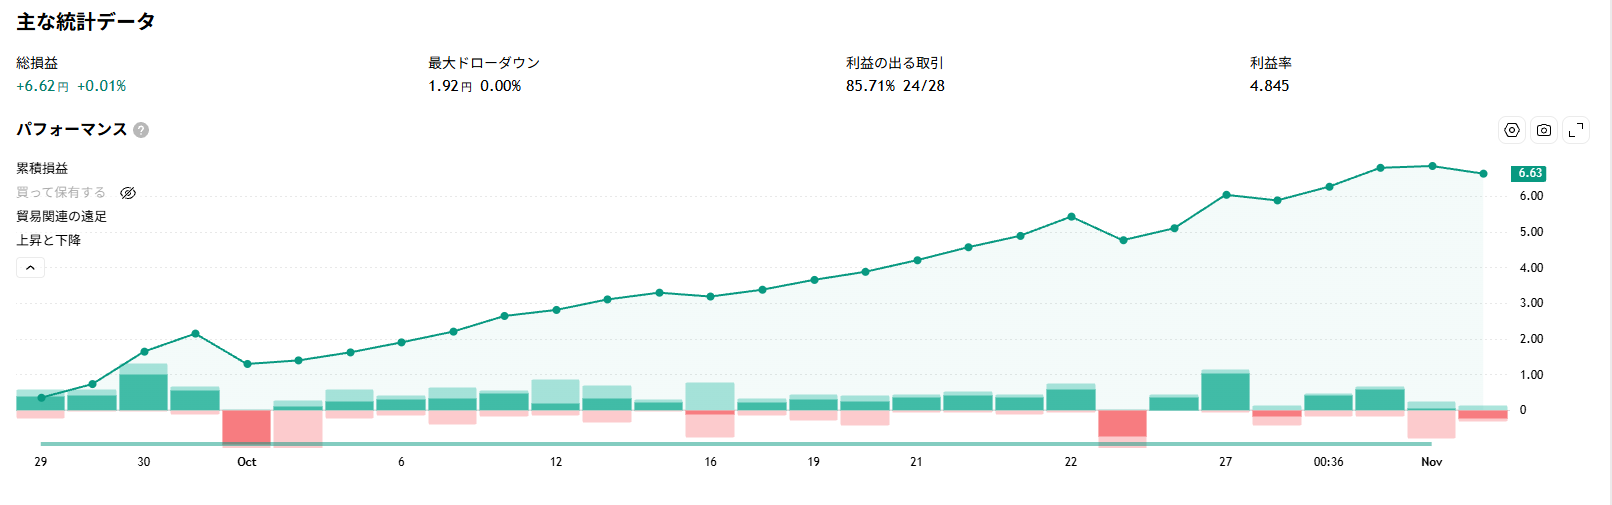
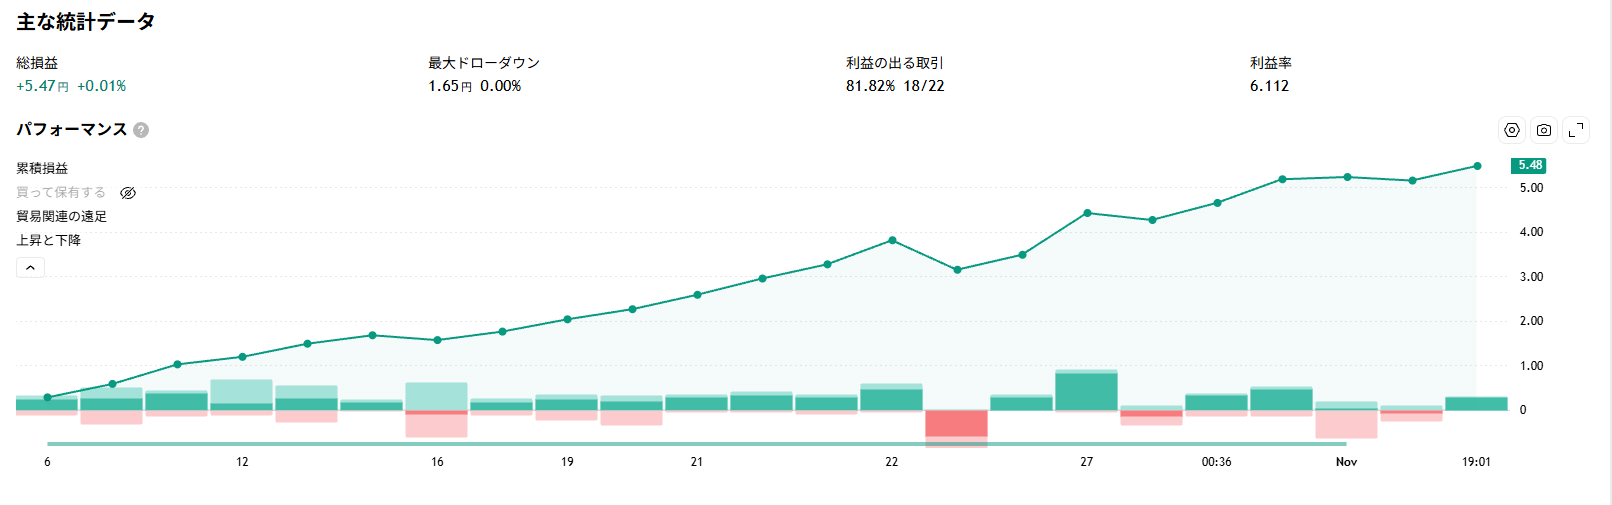
売買記録 2026-11-03（CA_RSI_Bol_1.1_JP）

diff --git a/index.html b/index.html
@@ -47,7 +47,7 @@ ul.days a{display:block;background:var(--card);border:1px solid var(--line);bord
 .eqw .cx{stroke:var(--muted);stroke-width:1;vector-effect:non-scaling-stroke;display:none}
 .eqw .dot{fill:var(--eq);stroke:var(--card);stroke-width:2;vector-effect:non-scaling-stroke;display:none}
 .eqt{position:absolute;top:4px;transform:translateX(-50%);background:var(--card);border:1px solid var(--line);border-radius:6px;padding:4px 8px;font-size:12px;line-height:1.5;white-space:nowrap;pointer-events:none;display:none;box-shadow:0 2px 8px rgba(0,0,0,.14)}
-</style></head><body><header><h1>TradingView 売買記録</h1><div class=sub>通算 ／ CA_RSI_Bol_1.1_JP — USDJPY 3分足</div></header><main><h2>通算成績</h2><p class=note>ChartArt「Bollinger + RSI, Double Strategy」v1.1 の日本語表示版。ロジックは原本と同じで、矢印を「買い／売り」表示にして評価損益を円で出すようにしたもの。アラート2本（1時間足・3分足）が稼働中。</p><div class=kpi><div><div class=k>総損益</div><div class=v><span class="up">+6.85</span> 円</div><div class=n>建玉中込み +6.65 円</div></div><div><div class=k>利益率（PF）</div><div class=v>4.848</div><div class=n>建玉中込み 4.359</div></div><div><div class=k>勝率</div><div class=v>85.7%</div><div class=n>24 勝 / 28 取引</div></div><div><div class=k>最大ドローダウン</div><div class=v>1.92 円</div><div class=n>含み損も数えた谷</div></div></div><p class=note>記録を始めてからためた<b>全 29 取引</b>の通算です（2026-09-29 〜 2026-11-02）。TradingView がさかのぼれる範囲から外れた古い取引も台帳に残してあるので消えません。最後に記録したのは <b>2026-11-03</b>（2026-11-03 06:43 JST）。</p><h2>通算の損益カーブ</h2><p>決済が済んだ取引だけを、決済した順に積み上げたものです。線をなぞるとその取引が出ます。</p><div class=eqw id=eqw><svg viewBox="0 0 380 210" role=img aria-label="通算の損益カーブ。2026年09月29日から2026年11月02日まで、決済済み 28 取引の累積損益は +6.85 円。1件ごとの内訳は下のトレード履歴の表で読めます。"><title>通算の損益カーブ</title><line class="zl" x1="44.0" y1="184.0" x2="372.0" y2="184.0"/><text class=ax x="39.0" y="187.5" text-anchor=end>+0</text><line class="gl" x1="44.0" y1="141.0" x2="372.0" y2="141.0"/><text class=ax x="39.0" y="144.5" text-anchor=end>+2</text><line class="gl" x1="44.0" y1="98.0" x2="372.0" y2="98.0"/><text class=ax x="39.0" y="101.5" text-anchor=end>+4</text><line class="gl" x1="44.0" y1="55.0" x2="372.0" y2="55.0"/><text class=ax x="39.0" y="58.5" text-anchor=end>+6</text><line class="gl" x1="44.0" y1="12.0" x2="372.0" y2="12.0"/><text class=ax x="39.0" y="15.5" text-anchor=end>+8</text><text class=ax x="44.0" y="201.0" text-anchor=start>9/29</text><text class=ax x="203.5" y="201.0" text-anchor=middle>10/16</text><text class=ax x="372.0" y="201.0" text-anchor=end>11/2</text><polygon class=ar points="44.0,184.0 44.0,184.0 46.9,176.7 48.2,168.5 52.9,149.0 57.9,138.0 66.3,156.3 102.1,154.1 109.0,149.4 112.6,143.4 129.7,136.9 135.8,127.5 168.6,123.8 188.1,117.4 189.0,113.3 203.5,115.6 208.5,111.5 240.1,105.5 251.6,100.6 255.8,93.7 260.5,85.7 263.2,78.9 267.0,67.3 304.3,81.4 305.0,74.1 314.4,53.9 325.7,57.4 329.6,49.2 341.7,37.8 372.0,36.7 372.0,184.0"/><polyline class=ln points="44.0,184.0 46.9,176.7 48.2,168.5 52.9,149.0 57.9,138.0 66.3,156.3 102.1,154.1 109.0,149.4 112.6,143.4 129.7,136.9 135.8,127.5 168.6,123.8 188.1,117.4 189.0,113.3 203.5,115.6 208.5,111.5 240.1,105.5 251.6,100.6 255.8,93.7 260.5,85.7 263.2,78.9 267.0,67.3 304.3,81.4 305.0,74.1 314.4,53.9 325.7,57.4 329.6,49.2 341.7,37.8 372.0,36.7"/><text class=dl x="370.0" y="29.7" text-anchor=end>+6.85 円</text><line class=cx id=eqcx y1="12" y2="184" x1="0" x2="0"/><circle class=dot id=eqdot r="5" cx="0" cy="0"/></svg><div class=eqt id=eqt></div><script type="application/json" id=eqd>[{"x": 44.0, "y": 184.0, "t": "2026/09/29 記録開始<br>累積 +0.00 円"}, {"x": 46.9, "y": 176.7, "t": "2026/09/29 21:21 決済<br>売り +0.34 円<br>累積 +0.34 円"}, {"x": 48.2, "y": 168.5, "t": "2026/09/30 00:36 決済<br>買い +0.38 円<br>累積 +0.72 円"}, {"x": 52.9, "y": 149.0, "t": "2026/09/30 12:15 決済<br>売り +0.91 円<br>累積 +1.63 円"}, {"x": 57.9, "y": 138.0, "t": "2026/10/01 00:30 決済<br>買い +0.51 円<br>累積 +2.14 円"}, {"x": 66.3, "y": 156.3, "t": "2026/10/01 21:24 決済<br>売り -0.85 円<br>累積 +1.29 円"}, {"x": 102.1, "y": 154.1, "t": "2026/10/05 13:54 決済<br>買い +0.10 円<br>累積 +1.39 円"}, {"x": 109.0, "y": 149.4, "t": "2026/10/06 06:57 決済<br>売り +0.22 円<br>累積 +1.61 円"}, {"x": 112.6, "y": 143.4, "t": "2026/10/06 15:45 決済<br>買い +0.28 円<br>累積 +1.89 円"}, {"x": 129.7, "y": 136.9, "t": "2026/10/08 10:06 決済<br>売り +0.30 円<br>累積 +2.19 円"}, {"x": 135.8, "y": 127.5, "t": "2026/10/09 01:09 決済<br>買い +0.44 円<br>累積 +2.63 円"}, {"x": 168.6, "y": 123.8, "t": "2026/10/12 10:18 決済<br>売り +0.17 円<br>累積 +2.80 円"}, {"x": 188.1, "y": 117.4, "t": "2026/10/14 10:36 決済<br>買い +0.30 円<br>累積 +3.10 円"}, {"x": 189.0, "y": 113.3, "t": "2026/10/14 12:45 決済<br>売り +0.19 円<br>累積 +3.29 円"}, {"x": 203.5, "y": 115.6, "t": "2026/10/16 00:42 決済<br>買い -0.11 円<br>累積 +3.18 円"}, {"x": 208.5, "y": 111.5, "t": "2026/10/16 13:09 決済<br>売り +0.19 円<br>累積 +3.37 円"}, {"x": 240.1, "y": 105.5, "t": "2026/10/19 19:18 決済<br>買い +0.28 円<br>累積 +3.65 円"}, {"x": 251.6, "y": 100.6, "t": "2026/10/20 23:48 決済<br>売り +0.23 円<br>累積 +3.88 円"}, {"x": 255.8, "y": 93.7, "t": "2026/10/21 10:09 決済<br>買い +0.32 円<br>累積 +4.20 円"}, {"x": 260.5, "y": 85.7, "t": "2026/10/21 21:48 決済<br>売り +0.37 円<br>累積 +4.57 円"}, {"x": 263.2, "y": 78.9, "t": "2026/10/22 04:18 決済<br>買い +0.32 円<br>累積 +4.89 円"}, {"x": 267.0, "y": 67.3, "t": "2026/10/22 13:45 決済<br>売り +0.54 円<br>累積 +5.43 円"}, {"x": 304.3, "y": 81.4, "t": "2026/10/26 10:03 決済<br>買い -0.66 円<br>累積 +4.77 円"}, {"x": 305.0, "y": 74.1, "t": "2026/10/26 11:48 決済<br>売り +0.34 円<br>累積 +5.11 円"}, {"x": 314.4, "y": 53.9, "t": "2026/10/27 11:00 決済<br>買い +0.94 円<br>累積 +6.05 円"}, {"x": 325.7, "y": 57.4, "t": "2026/10/28 14:54 決済<br>売り -0.16 円<br>累積 +5.89 円"}, {"x": 329.6, "y": 49.2, "t": "2026/10/29 00:36 決済<br>買い +0.38 円<br>累積 +6.27 円"}, {"x": 341.7, "y": 37.8, "t": "2026/10/30 06:39 決済<br>売り +0.53 円<br>累積 +6.80 円"}, {"x": 372.0, "y": 36.7, "t": "2026/11/02 09:33 決済<br>買い +0.05 円<br>累積 +6.85 円"}]</script></div><h2>トレード履歴（通算）</h2><p>全 29 件（新しい順）</p><p class=cap>日時は上がエントリー・下が決済。小さい字は価格です。</p><div class=sc><table><thead><tr><th>#</th><th>方向</th><th>日時</th><th>損益<br>(円)</th><th>累積<br>(円)</th></tr></thead><tbody><tr class=op><td class=num>29</td><td><span class="tag s">売</span></td><td>11/02 09:33<br>↓ <b>建玉中</b><div class=px>157.719 → （未決済）</div></td><td class=num><span class="dn">-0.20</span></td><td class=num>+6.65</td></tr><tr><td class=num>28</td><td><span class="tag b">買</span></td><td>10/30 06:39<br>↓ 11/02 09:33<div class=px>157.668 → 157.719</div></td><td class=num><span class="up">+0.05</span></td><td class=num>+6.85</td></tr><tr><td class=num>27</td><td><span class="tag s">売</span></td><td>10/29 00:36<br>↓ 10/30 06:39<div class=px>158.199 → 157.668</div></td><td class=num><span class="up">+0.53</span></td><td class=num>+6.80</td></tr><tr><td class=num>26</td><td><span class="tag b">買</span></td><td>10/28 14:54<br>↓ 10/29 00:36<div class=px>157.816 → 158.199</div></td><td class=num><span class="up">+0.38</span></td><td class=num>+6.27</td></tr><tr><td class=num>25</td><td><span class="tag s">売</span></td><td>10/27 11:00<br>↓ 10/28 14:54<div class=px>157.659 → 157.816</div></td><td class=num><span class="dn">-0.16</span></td><td class=num>+5.89</td></tr><tr><td class=num>24</td><td><span class="tag b">買</span></td><td>10/26 11:48<br>↓ 10/27 11:00<div class=px>156.721 → 157.659</div></td><td class=num><span class="up">+0.94</span></td><td class=num>+6.05</td></tr><tr><td class=num>23</td><td><span class="tag s">売</span></td><td>10/26 10:03<br>↓ 10/26 11:48<div class=px>157.057 → 156.721</div></td><td class=num><span class="up">+0.34</span></td><td class=num>+5.11</td></tr><tr><td class=num>22</td><td><span class="tag b">買</span></td><td>10/22 13:45<br>↓ 10/26 10:03<div class=px>157.719 → 157.057</div></td><td class=num><span class="dn">-0.66</span></td><td class=num>+4.77</td></tr><tr><td class=num>21</td><td><span class="tag s">売</span></td><td>10/22 04:18<br>↓ 10/22 13:45<div class=px>158.26 → 157.719</div></td><td class=num><span class="up">+0.54</span></td><td class=num>+5.43</td></tr><tr><td class=num>20</td><td><span class="tag b">買</span></td><td>10/21 21:48<br>↓ 10/22 04:18<div class=px>157.942 → 158.26</div></td><td class=num><span class="up">+0.32</span></td><td class=num>+4.89</td></tr><tr><td class=num>19</td><td><span class="tag s">売</span></td><td>10/21 10:09<br>↓ 10/21 21:48<div class=px>158.307 → 157.942</div></td><td class=num><span class="up">+0.37</span></td><td class=num>+4.57</td></tr><tr><td class=num>18</td><td><span class="tag b">買</span></td><td>10/20 23:48<br>↓ 10/21 10:09<div class=px>157.983 → 158.307</div></td><td class=num><span class="up">+0.32</span></td><td class=num>+4.20</td></tr><tr><td class=num>17</td><td><span class="tag s">売</span></td><td>10/19 19:18<br>↓ 10/20 23:48<div class=px>158.21 → 157.983</div></td><td class=num><span class="up">+0.23</span></td><td class=num>+3.88</td></tr><tr><td class=num>16</td><td><span class="tag b">買</span></td><td>10/16 13:09<br>↓ 10/19 19:18<div class=px>157.935 → 158.21</div></td><td class=num><span class="up">+0.28</span></td><td class=num>+3.65</td></tr><tr><td class=num>15</td><td><span class="tag s">売</span></td><td>10/16 00:42<br>↓ 10/16 13:09<div class=px>158.126 → 157.935</div></td><td class=num><span class="up">+0.19</span></td><td class=num>+3.37</td></tr><tr><td class=num>14</td><td><span class="tag b">買</span></td><td>10/14 12:45<br>↓ 10/16 00:42<div class=px>158.234 → 158.126</div></td><td class=num><span class="dn">-0.11</span></td><td class=num>+3.18</td></tr><tr><td class=num>13</td><td><span class="tag s">売</span></td><td>10/14 10:36<br>↓ 10/14 12:45<div class=px>158.423 → 158.234</div></td><td class=num><span class="up">+0.19</span></td><td class=num>+3.29</td></tr><tr><td class=num>12</td><td><span class="tag b">買</span></td><td>10/12 10:18<br>↓ 10/14 10:36<div class=px>158.128 → 158.423</div></td><td class=num><span class="up">+0.30</span></td><td class=num>+3.10</td></tr><tr><td class=num>11</td><td><span class="tag s">売</span></td><td>10/09 01:09<br>↓ 10/12 10:18<div class=px>158.297 → 158.128</div></td><td class=num><span class="up">+0.17</span></td><td class=num>+2.80</td></tr><tr><td class=num>10</td><td><span class="tag b">買</span></td><td>10/08 10:06<br>↓ 10/09 01:09<div class=px>157.858 → 158.297</div></td><td class=num><span class="up">+0.44</span></td><td class=num>+2.63</td></tr><tr><td class=num>9</td><td><span class="tag s">売</span></td><td>10/06 15:45<br>↓ 10/08 10:06<div class=px>158.16 → 157.858</div></td><td class=num><span class="up">+0.30</span></td><td class=num>+2.19</td></tr><tr><td class=num>8</td><td><span class="tag b">買</span></td><td>10/06 06:57<br>↓ 10/06 15:45<div class=px>157.879 → 158.16</div></td><td class=num><span class="up">+0.28</span></td><td class=num>+1.89</td></tr><tr><td class=num>7</td><td><span class="tag s">売</span></td><td>10/05 13:54<br>↓ 10/06 06:57<div class=px>158.103 → 157.879</div></td><td class=num><span class="up">+0.22</span></td><td class=num>+1.61</td></tr><tr><td class=num>6</td><td><span class="tag b">買</span></td><td>10/01 21:24<br>↓ 10/05 13:54<div class=px>158.003 → 158.103</div></td><td class=num><span class="up">+0.10</span></td><td class=num>+1.39</td></tr><tr><td class=num>5</td><td><span class="tag s">売</span></td><td>10/01 00:30<br>↓ 10/01 21:24<div class=px>157.151 → 158.003</div></td><td class=num><span class="dn">-0.85</span></td><td class=num>+1.29</td></tr><tr><td class=num>4</td><td><span class="tag b">買</span></td><td>09/30 12:15<br>↓ 10/01 00:30<div class=px>156.644 → 157.151</div></td><td class=num><span class="up">+0.51</span></td><td class=num>+2.14</td></tr><tr><td class=num>3</td><td><span class="tag s">売</span></td><td>09/30 00:36<br>↓ 09/30 12:15<div class=px>157.553 → 156.644</div></td><td class=num><span class="up">+0.91</span></td><td class=num>+1.63</td></tr><tr><td class=num>2</td><td><span class="tag b">買</span></td><td>09/29 21:21<br>↓ 09/30 00:36<div class=px>157.169 → 157.553</div></td><td class=num><span class="up">+0.38</span></td><td class=num>+0.72</td></tr><tr><td class=num>1</td><td><span class="tag s">売</span></td><td>09/29 14:09<br>↓ 09/29 21:21<div class=px>157.509 → 157.169</div></td><td class=num><span class="up">+0.34</span></td><td class=num>+0.34</td></tr></tbody></table></div><h2>この日の TradingView 画面</h2><p class=note><b>取得日時 2026-11-03 06:43 JST</b><br>TradingView がこの日さかのぼれた範囲は <b>2026-09-29 〜 2026-11-02</b>（29 取引）。その範囲だけで集計すると 総損益 +6.84 円 ／ 利益率 4.848。<br>上の通算と数字が違うのは、通算には窓から外れた古い取引も入っているからです。</p><h3>戦略レポート（主な統計データと累積損益カーブ）</h3><a href='2026-11-03/report.png' target=_blank rel=noopener><img src='2026-11-03/report.png' alt='戦略レポート（主な統計データと累積損益カーブ）'></a><p class=cap>画像をタップすると原寸で開きます</p><h2>日付ごとの記録</h2><ul class=days><li><a href='2026-11-03/'>2026-11-03　← いちばん新しい記録</a></li><li><a href='2026-11-02/'>2026-11-02</a></li><li><a href='2026-11-01/'>2026-11-01</a></li><li><a href='2026-10-31/'>2026-10-31</a></li></ul><details open><summary>⚠ 数字を読むときの注意</summary><ul><li><b>通算は「記録したときに TradingView に見えていた取引」を足したもの</b>です。記録を始める前の取引や、記録の間隔が開いて窓から外れてしまった取引は入りません</li><li>通算の総損益は<b>1取引ごとの損益を足し上げた値</b>です。TradingView の「累積損益」の列は行ごとに丸めてあるので、そちらとわずかに違います（いちばん新しい記録の範囲で 足し上げ +6.85 円 / TV の列 +6.84 円）</li><li><b>TradingView の画面に出る「利益率」は建玉中の評価損益を含みません</b>。いま建玉中が -0.20 円あり、含めると利益率は 4.848 → 4.359 になります</li><li>表の損益はスプレッドや実際の約定ズレを含みません。実口座の成績とは一致しません</li><li>最大ドローダウンは、決済ごとの累積損益に加えて保有中の含み損も谷として数えています。TradingView の表示と計算の土俵が違うことがあります</li><li>この戦略は5分足6年の独立検証では利益率 0.924（ランダムに入った場合より悪い）でした。ここに出ている短期の高い利益率は、期間の取り方で出ることがあります</li><li>3分足は長期の裏取りができません（手持ちの検証データは最短5分足）</li></ul></details><p class=foot>TradingView の戦略テスターから自動で作っています。取引一覧の原本（CSV）と通算台帳は非公開の保管用リポジトリにあります。</p></main><script>
+</style></head><body><header><h1>TradingView 売買記録</h1><div class=sub>通算 ／ CA_RSI_Bol_1.1_JP — USDJPY 3分足</div></header><main><h2>通算成績</h2><p class=note>ChartArt「Bollinger + RSI, Double Strategy」v1.1 の日本語表示版。ロジックは原本と同じで、矢印を「買い／売り」表示にして評価損益を円で出すようにしたもの。アラート2本（1時間足・3分足）が稼働中。</p><div class=kpi><div><div class=k>総損益</div><div class=v><span class="up">+6.77</span> 円</div><div class=n>建玉中込み +7.14 円</div></div><div><div class=k>利益率（PF）</div><div class=v>4.640</div><div class=n>建玉中込み 4.839</div></div><div><div class=k>勝率</div><div class=v>82.8%</div><div class=n>24 勝 / 29 取引</div></div><div><div class=k>最大ドローダウン</div><div class=v>1.92 円</div><div class=n>含み損も数えた谷</div></div></div><p class=note>記録を始めてからためた<b>全 30 取引</b>の通算です（2026-09-29 〜 2026-11-03）。TradingView がさかのぼれる範囲から外れた古い取引も台帳に残してあるので消えません。最後に記録したのは <b>2026-11-03</b>（2026-11-03 19:03 JST）。</p><h2>通算の損益カーブ</h2><p>決済が済んだ取引だけを、決済した順に積み上げたものです。線をなぞるとその取引が出ます。</p><div class=eqw id=eqw><svg viewBox="0 0 380 210" role=img aria-label="通算の損益カーブ。2026年09月29日から2026年11月03日まで、決済済み 29 取引の累積損益は +6.77 円。1件ごとの内訳は下のトレード履歴の表で読めます。"><title>通算の損益カーブ</title><line class="zl" x1="44.0" y1="184.0" x2="372.0" y2="184.0"/><text class=ax x="39.0" y="187.5" text-anchor=end>+0</text><line class="gl" x1="44.0" y1="141.0" x2="372.0" y2="141.0"/><text class=ax x="39.0" y="144.5" text-anchor=end>+2</text><line class="gl" x1="44.0" y1="98.0" x2="372.0" y2="98.0"/><text class=ax x="39.0" y="101.5" text-anchor=end>+4</text><line class="gl" x1="44.0" y1="55.0" x2="372.0" y2="55.0"/><text class=ax x="39.0" y="58.5" text-anchor=end>+6</text><line class="gl" x1="44.0" y1="12.0" x2="372.0" y2="12.0"/><text class=ax x="39.0" y="15.5" text-anchor=end>+8</text><text class=ax x="44.0" y="201.0" text-anchor=start>9/29</text><text class=ax x="202.4" y="201.0" text-anchor=middle>10/16</text><text class=ax x="372.0" y="201.0" text-anchor=end>11/3</text><polygon class=ar points="44.0,184.0 44.0,184.0 46.8,176.7 48.1,168.5 52.6,149.0 57.4,138.0 65.5,156.3 100.0,154.1 106.6,149.4 110.0,143.4 126.5,136.9 132.4,127.5 163.9,123.8 182.7,117.4 183.6,113.3 197.6,115.6 202.4,111.5 232.8,105.5 243.9,100.6 248.0,93.7 252.5,85.7 255.0,78.9 258.7,67.3 294.6,81.4 295.3,74.1 304.3,53.9 315.2,57.4 319.0,49.2 330.7,37.8 359.8,36.7 372.0,38.4 372.0,184.0"/><polyline class=ln points="44.0,184.0 46.8,176.7 48.1,168.5 52.6,149.0 57.4,138.0 65.5,156.3 100.0,154.1 106.6,149.4 110.0,143.4 126.5,136.9 132.4,127.5 163.9,123.8 182.7,117.4 183.6,113.3 197.6,115.6 202.4,111.5 232.8,105.5 243.9,100.6 248.0,93.7 252.5,85.7 255.0,78.9 258.7,67.3 294.6,81.4 295.3,74.1 304.3,53.9 315.2,57.4 319.0,49.2 330.7,37.8 359.8,36.7 372.0,38.4"/><text class=dl x="370.0" y="31.4" text-anchor=end>+6.77 円</text><line class=cx id=eqcx y1="12" y2="184" x1="0" x2="0"/><circle class=dot id=eqdot r="5" cx="0" cy="0"/></svg><div class=eqt id=eqt></div><script type="application/json" id=eqd>[{"x": 44.0, "y": 184.0, "t": "2026/09/29 記録開始<br>累積 +0.00 円"}, {"x": 46.8, "y": 176.7, "t": "2026/09/29 21:21 決済<br>売り +0.34 円<br>累積 +0.34 円"}, {"x": 48.1, "y": 168.5, "t": "2026/09/30 00:36 決済<br>買い +0.38 円<br>累積 +0.72 円"}, {"x": 52.6, "y": 149.0, "t": "2026/09/30 12:15 決済<br>売り +0.91 円<br>累積 +1.63 円"}, {"x": 57.4, "y": 138.0, "t": "2026/10/01 00:30 決済<br>買い +0.51 円<br>累積 +2.14 円"}, {"x": 65.5, "y": 156.3, "t": "2026/10/01 21:24 決済<br>売り -0.85 円<br>累積 +1.29 円"}, {"x": 100.0, "y": 154.1, "t": "2026/10/05 13:54 決済<br>買い +0.10 円<br>累積 +1.39 円"}, {"x": 106.6, "y": 149.4, "t": "2026/10/06 06:57 決済<br>売り +0.22 円<br>累積 +1.61 円"}, {"x": 110.0, "y": 143.4, "t": "2026/10/06 15:45 決済<br>買い +0.28 円<br>累積 +1.89 円"}, {"x": 126.5, "y": 136.9, "t": "2026/10/08 10:06 決済<br>売り +0.30 円<br>累積 +2.19 円"}, {"x": 132.4, "y": 127.5, "t": "2026/10/09 01:09 決済<br>買い +0.44 円<br>累積 +2.63 円"}, {"x": 163.9, "y": 123.8, "t": "2026/10/12 10:18 決済<br>売り +0.17 円<br>累積 +2.80 円"}, {"x": 182.7, "y": 117.4, "t": "2026/10/14 10:36 決済<br>買い +0.30 円<br>累積 +3.10 円"}, {"x": 183.6, "y": 113.3, "t": "2026/10/14 12:45 決済<br>売り +0.19 円<br>累積 +3.29 円"}, {"x": 197.6, "y": 115.6, "t": "2026/10/16 00:42 決済<br>買い -0.11 円<br>累積 +3.18 円"}, {"x": 202.4, "y": 111.5, "t": "2026/10/16 13:09 決済<br>売り +0.19 円<br>累積 +3.37 円"}, {"x": 232.8, "y": 105.5, "t": "2026/10/19 19:18 決済<br>買い +0.28 円<br>累積 +3.65 円"}, {"x": 243.9, "y": 100.6, "t": "2026/10/20 23:48 決済<br>売り +0.23 円<br>累積 +3.88 円"}, {"x": 248.0, "y": 93.7, "t": "2026/10/21 10:09 決済<br>買い +0.32 円<br>累積 +4.20 円"}, {"x": 252.5, "y": 85.7, "t": "2026/10/21 21:48 決済<br>売り +0.37 円<br>累積 +4.57 円"}, {"x": 255.0, "y": 78.9, "t": "2026/10/22 04:18 決済<br>買い +0.32 円<br>累積 +4.89 円"}, {"x": 258.7, "y": 67.3, "t": "2026/10/22 13:45 決済<br>売り +0.54 円<br>累積 +5.43 円"}, {"x": 294.6, "y": 81.4, "t": "2026/10/26 10:03 決済<br>買い -0.66 円<br>累積 +4.77 円"}, {"x": 295.3, "y": 74.1, "t": "2026/10/26 11:48 決済<br>売り +0.34 円<br>累積 +5.11 円"}, {"x": 304.3, "y": 53.9, "t": "2026/10/27 11:00 決済<br>買い +0.94 円<br>累積 +6.05 円"}, {"x": 315.2, "y": 57.4, "t": "2026/10/28 14:54 決済<br>売り -0.16 円<br>累積 +5.89 円"}, {"x": 319.0, "y": 49.2, "t": "2026/10/29 00:36 決済<br>買い +0.38 円<br>累積 +6.27 円"}, {"x": 330.7, "y": 37.8, "t": "2026/10/30 06:39 決済<br>売り +0.53 円<br>累積 +6.80 円"}, {"x": 359.8, "y": 36.7, "t": "2026/11/02 09:33 決済<br>買い +0.05 円<br>累積 +6.85 円"}, {"x": 372.0, "y": 38.4, "t": "2026/11/03 16:48 決済<br>売り -0.08 円<br>累積 +6.77 円"}]</script></div><h2>トレード履歴（通算）</h2><p>全 30 件（新しい順）</p><p class=cap>日時は上がエントリー・下が決済。小さい字は価格です。</p><div class=sc><table><thead><tr><th>#</th><th>方向</th><th>日時</th><th>損益<br>(円)</th><th>累積<br>(円)</th></tr></thead><tbody><tr class=op><td class=num>30</td><td><span class="tag b">買</span></td><td>11/03 16:48<br>↓ <b>建玉中</b><div class=px>157.799 → （未決済）</div></td><td class=num><span class="up">+0.37</span></td><td class=num>+7.14</td></tr><tr><td class=num>29</td><td><span class="tag s">売</span></td><td>11/02 09:33<br>↓ 11/03 16:48<div class=px>157.719 → 157.799</div></td><td class=num><span class="dn">-0.08</span></td><td class=num>+6.77</td></tr><tr><td class=num>28</td><td><span class="tag b">買</span></td><td>10/30 06:39<br>↓ 11/02 09:33<div class=px>157.668 → 157.719</div></td><td class=num><span class="up">+0.05</span></td><td class=num>+6.85</td></tr><tr><td class=num>27</td><td><span class="tag s">売</span></td><td>10/29 00:36<br>↓ 10/30 06:39<div class=px>158.199 → 157.668</div></td><td class=num><span class="up">+0.53</span></td><td class=num>+6.80</td></tr><tr><td class=num>26</td><td><span class="tag b">買</span></td><td>10/28 14:54<br>↓ 10/29 00:36<div class=px>157.816 → 158.199</div></td><td class=num><span class="up">+0.38</span></td><td class=num>+6.27</td></tr><tr><td class=num>25</td><td><span class="tag s">売</span></td><td>10/27 11:00<br>↓ 10/28 14:54<div class=px>157.659 → 157.816</div></td><td class=num><span class="dn">-0.16</span></td><td class=num>+5.89</td></tr><tr><td class=num>24</td><td><span class="tag b">買</span></td><td>10/26 11:48<br>↓ 10/27 11:00<div class=px>156.721 → 157.659</div></td><td class=num><span class="up">+0.94</span></td><td class=num>+6.05</td></tr><tr><td class=num>23</td><td><span class="tag s">売</span></td><td>10/26 10:03<br>↓ 10/26 11:48<div class=px>157.057 → 156.721</div></td><td class=num><span class="up">+0.34</span></td><td class=num>+5.11</td></tr><tr><td class=num>22</td><td><span class="tag b">買</span></td><td>10/22 13:45<br>↓ 10/26 10:03<div class=px>157.719 → 157.057</div></td><td class=num><span class="dn">-0.66</span></td><td class=num>+4.77</td></tr><tr><td class=num>21</td><td><span class="tag s">売</span></td><td>10/22 04:18<br>↓ 10/22 13:45<div class=px>158.26 → 157.719</div></td><td class=num><span class="up">+0.54</span></td><td class=num>+5.43</td></tr><tr><td class=num>20</td><td><span class="tag b">買</span></td><td>10/21 21:48<br>↓ 10/22 04:18<div class=px>157.942 → 158.26</div></td><td class=num><span class="up">+0.32</span></td><td class=num>+4.89</td></tr><tr><td class=num>19</td><td><span class="tag s">売</span></td><td>10/21 10:09<br>↓ 10/21 21:48<div class=px>158.307 → 157.942</div></td><td class=num><span class="up">+0.37</span></td><td class=num>+4.57</td></tr><tr><td class=num>18</td><td><span class="tag b">買</span></td><td>10/20 23:48<br>↓ 10/21 10:09<div class=px>157.983 → 158.307</div></td><td class=num><span class="up">+0.32</span></td><td class=num>+4.20</td></tr><tr><td class=num>17</td><td><span class="tag s">売</span></td><td>10/19 19:18<br>↓ 10/20 23:48<div class=px>158.21 → 157.983</div></td><td class=num><span class="up">+0.23</span></td><td class=num>+3.88</td></tr><tr><td class=num>16</td><td><span class="tag b">買</span></td><td>10/16 13:09<br>↓ 10/19 19:18<div class=px>157.935 → 158.21</div></td><td class=num><span class="up">+0.28</span></td><td class=num>+3.65</td></tr><tr><td class=num>15</td><td><span class="tag s">売</span></td><td>10/16 00:42<br>↓ 10/16 13:09<div class=px>158.126 → 157.935</div></td><td class=num><span class="up">+0.19</span></td><td class=num>+3.37</td></tr><tr><td class=num>14</td><td><span class="tag b">買</span></td><td>10/14 12:45<br>↓ 10/16 00:42<div class=px>158.234 → 158.126</div></td><td class=num><span class="dn">-0.11</span></td><td class=num>+3.18</td></tr><tr><td class=num>13</td><td><span class="tag s">売</span></td><td>10/14 10:36<br>↓ 10/14 12:45<div class=px>158.423 → 158.234</div></td><td class=num><span class="up">+0.19</span></td><td class=num>+3.29</td></tr><tr><td class=num>12</td><td><span class="tag b">買</span></td><td>10/12 10:18<br>↓ 10/14 10:36<div class=px>158.128 → 158.423</div></td><td class=num><span class="up">+0.30</span></td><td class=num>+3.10</td></tr><tr><td class=num>11</td><td><span class="tag s">売</span></td><td>10/09 01:09<br>↓ 10/12 10:18<div class=px>158.297 → 158.128</div></td><td class=num><span class="up">+0.17</span></td><td class=num>+2.80</td></tr><tr><td class=num>10</td><td><span class="tag b">買</span></td><td>10/08 10:06<br>↓ 10/09 01:09<div class=px>157.858 → 158.297</div></td><td class=num><span class="up">+0.44</span></td><td class=num>+2.63</td></tr><tr><td class=num>9</td><td><span class="tag s">売</span></td><td>10/06 15:45<br>↓ 10/08 10:06<div class=px>158.16 → 157.858</div></td><td class=num><span class="up">+0.30</span></td><td class=num>+2.19</td></tr><tr><td class=num>8</td><td><span class="tag b">買</span></td><td>10/06 06:57<br>↓ 10/06 15:45<div class=px>157.879 → 158.16</div></td><td class=num><span class="up">+0.28</span></td><td class=num>+1.89</td></tr><tr><td class=num>7</td><td><span class="tag s">売</span></td><td>10/05 13:54<br>↓ 10/06 06:57<div class=px>158.103 → 157.879</div></td><td class=num><span class="up">+0.22</span></td><td class=num>+1.61</td></tr><tr><td class=num>6</td><td><span class="tag b">買</span></td><td>10/01 21:24<br>↓ 10/05 13:54<div class=px>158.003 → 158.103</div></td><td class=num><span class="up">+0.10</span></td><td class=num>+1.39</td></tr><tr><td class=num>5</td><td><span class="tag s">売</span></td><td>10/01 00:30<br>↓ 10/01 21:24<div class=px>157.151 → 158.003</div></td><td class=num><span class="dn">-0.85</span></td><td class=num>+1.29</td></tr><tr><td class=num>4</td><td><span class="tag b">買</span></td><td>09/30 12:15<br>↓ 10/01 00:30<div class=px>156.644 → 157.151</div></td><td class=num><span class="up">+0.51</span></td><td class=num>+2.14</td></tr><tr><td class=num>3</td><td><span class="tag s">売</span></td><td>09/30 00:36<br>↓ 09/30 12:15<div class=px>157.553 → 156.644</div></td><td class=num><span class="up">+0.91</span></td><td class=num>+1.63</td></tr><tr><td class=num>2</td><td><span class="tag b">買</span></td><td>09/29 21:21<br>↓ 09/30 00:36<div class=px>157.169 → 157.553</div></td><td class=num><span class="up">+0.38</span></td><td class=num>+0.72</td></tr><tr><td class=num>1</td><td><span class="tag s">売</span></td><td>09/29 14:09<br>↓ 09/29 21:21<div class=px>157.509 → 157.169</div></td><td class=num><span class="up">+0.34</span></td><td class=num>+0.34</td></tr></tbody></table></div><h2>この日の TradingView 画面</h2><p class=note><b>取得日時 2026-11-03 19:03 JST</b><br>TradingView がこの日さかのぼれた範囲は <b>2026-10-06 〜 2026-11-03</b>（23 取引）。その範囲だけで集計すると 総損益 +5.15 円 ／ 利益率 6.109。<br>上の通算と数字が違うのは、通算には窓から外れた古い取引も入っているからです。</p><h3>戦略レポート（主な統計データと累積損益カーブ）</h3><a href='2026-11-03/report.png' target=_blank rel=noopener><img src='2026-11-03/report.png' alt='戦略レポート（主な統計データと累積損益カーブ）'></a><p class=cap>画像をタップすると原寸で開きます</p><h2>日付ごとの記録</h2><ul class=days><li><a href='2026-11-03/'>2026-11-03　← いちばん新しい記録</a></li><li><a href='2026-11-02/'>2026-11-02</a></li><li><a href='2026-11-01/'>2026-11-01</a></li><li><a href='2026-10-31/'>2026-10-31</a></li></ul><details open><summary>⚠ 数字を読むときの注意</summary><ul><li><b>通算は「記録したときに TradingView に見えていた取引」を足したもの</b>です。記録を始める前の取引や、記録の間隔が開いて窓から外れてしまった取引は入りません</li><li>通算の総損益は<b>1取引ごとの損益を足し上げた値</b>です。TradingView の「累積損益」の列は行ごとに丸めてあるので、そちらとわずかに違います（いちばん新しい記録の範囲で 足し上げ +5.16 円 / TV の列 +5.15 円）</li><li><b>TradingView の画面に出る「利益率」は建玉中の評価損益を含みません</b>。いま建玉中が +0.37 円あり、含めると利益率は 4.640 → 4.839 になります</li><li>表の損益はスプレッドや実際の約定ズレを含みません。実口座の成績とは一致しません</li><li>最大ドローダウンは、決済ごとの累積損益に加えて保有中の含み損も谷として数えています。TradingView の表示と計算の土俵が違うことがあります</li><li>この戦略は5分足6年の独立検証では利益率 0.924（ランダムに入った場合より悪い）でした。ここに出ている短期の高い利益率は、期間の取り方で出ることがあります</li><li>3分足は長期の裏取りができません（手持ちの検証データは最短5分足）</li></ul></details><p class=foot>TradingView の戦略テスターから自動で作っています。取引一覧の原本（CSV）と通算台帳は非公開の保管用リポジトリにあります。</p></main><script>
 (function(){
  var w=document.getElementById('eqw'); if(!w) return;
  var pts=JSON.parse(document.getElementById('eqd').textContent);

diff --git a/2026-11-03/index.html b/2026-11-03/index.html
@@ -47,4 +47,4 @@ ul.days a{display:block;background:var(--card);border:1px solid var(--line);bord
 .eqw .cx{stroke:var(--muted);stroke-width:1;vector-effect:non-scaling-stroke;display:none}
 .eqw .dot{fill:var(--eq);stroke:var(--card);stroke-width:2;vector-effect:non-scaling-stroke;display:none}
 .eqt{position:absolute;top:4px;transform:translateX(-50%);background:var(--card);border:1px solid var(--line);border-radius:6px;padding:4px 8px;font-size:12px;line-height:1.5;white-space:nowrap;pointer-events:none;display:none;box-shadow:0 2px 8px rgba(0,0,0,.14)}
-</style></head><body><header><h1>売買記録 2026-11-03</h1><div class=sub>CA_RSI_Bol_1.1_JP — USDJPY 3分足</div><p style='margin:6px 0 0'><a href='../'>← 通算・過去の一覧</a></p></header><main><div class=kpi><div><div class=k>総損益</div><div class=v><span class="up">+6.84</span> 円</div><div class=n>建玉中込み +6.64 円</div></div><div><div class=k>利益率（PF）</div><div class=v>4.848</div><div class=n>建玉中込み 4.359</div></div><div><div class=k>勝率</div><div class=v>85.7%</div><div class=n>24 勝 / 28 取引</div></div><div><div class=k>最大ドローダウン</div><div class=v>1.92 円</div><div class=n>含み損も数えた谷</div></div></div><p class=note><b>取得日時 2026-11-03 06:43 JST</b>（この日さかのぼれた範囲 2026-09-29 〜 2026-11-02）<br>このページは<b>その日の TradingView 画面そのまま</b>です。古い取引も含めた通算は<a href="../">トップページ</a>にあります。</p><p class=note>ChartArt「Bollinger + RSI, Double Strategy」v1.1 の日本語表示版。ロジックは原本と同じで、矢印を「買い／売り」表示にして評価損益を円で出すようにしたもの。アラート2本（1時間足・3分足）が稼働中。</p><h2>戦略レポート（主な統計データと累積損益カーブ）</h2><a href='report.png' target=_blank rel=noopener><img src='report.png' alt='戦略レポート（主な統計データと累積損益カーブ）'></a><p class=cap>画像をタップすると原寸で開きます</p><h2>この日の取引一覧</h2><p>29 件（新しい順）</p><p class=cap>日時は上がエントリー・下が決済。小さい字は価格です。</p><div class=sc><table><thead><tr><th>#</th><th>方向</th><th>日時</th><th>損益<br>(円)</th><th>累積<br>(円)</th></tr></thead><tbody><tr class=op><td class=num>29</td><td><span class="tag s">売</span></td><td>11/02 09:33<br>↓ <b>建玉中</b><div class=px>157.719 → （未決済）</div></td><td class=num><span class="dn">-0.20</span></td><td class=num>+6.64</td></tr><tr><td class=num>28</td><td><span class="tag b">買</span></td><td>10/30 06:39<br>↓ 11/02 09:33<div class=px>157.668 → 157.719</div></td><td class=num><span class="up">+0.05</span></td><td class=num>+6.84</td></tr><tr><td class=num>27</td><td><span class="tag s">売</span></td><td>10/29 00:36<br>↓ 10/30 06:39<div class=px>158.199 → 157.668</div></td><td class=num><span class="up">+0.53</span></td><td class=num>+6.79</td></tr><tr><td class=num>26</td><td><span class="tag b">買</span></td><td>10/28 14:54<br>↓ 10/29 00:36<div class=px>157.816 → 158.199</div></td><td class=num><span class="up">+0.38</span></td><td class=num>+6.26</td></tr><tr><td class=num>25</td><td><span class="tag s">売</span></td><td>10/27 11:00<br>↓ 10/28 14:54<div class=px>157.659 → 157.816</div></td><td class=num><span class="dn">-0.16</span></td><td class=num>+5.88</td></tr><tr><td class=num>24</td><td><span class="tag b">買</span></td><td>10/26 11:48<br>↓ 10/27 11:00<div class=px>156.721 → 157.659</div></td><td class=num><span class="up">+0.94</span></td><td class=num>+6.03</td></tr><tr><td class=num>23</td><td><span class="tag s">売</span></td><td>10/26 10:03<br>↓ 10/26 11:48<div class=px>157.057 → 156.721</div></td><td class=num><span class="up">+0.34</span></td><td class=num>+5.09</td></tr><tr><td class=num>22</td><td><span class="tag b">買</span></td><td>10/22 13:45<br>↓ 10/26 10:03<div class=px>157.719 → 157.057</div></td><td class=num><span class="dn">-0.66</span></td><td class=num>+4.76</td></tr><tr><td class=num>21</td><td><span class="tag s">売</span></td><td>10/22 04:18<br>↓ 10/22 13:45<div class=px>158.26 → 157.719</div></td><td class=num><span class="up">+0.54</span></td><td class=num>+5.42</td></tr><tr><td class=num>20</td><td><span class="tag b">買</span></td><td>10/21 21:48<br>↓ 10/22 04:18<div class=px>157.942 → 158.26</div></td><td class=num><span class="up">+0.32</span></td><td class=num>+4.88</td></tr><tr><td class=num>19</td><td><span class="tag s">売</span></td><td>10/21 10:09<br>↓ 10/21 21:48<div class=px>158.307 → 157.942</div></td><td class=num><span class="up">+0.37</span></td><td class=num>+4.56</td></tr><tr><td class=num>18</td><td><span class="tag b">買</span></td><td>10/20 23:48<br>↓ 10/21 10:09<div class=px>157.983 → 158.307</div></td><td class=num><span class="up">+0.32</span></td><td class=num>+4.20</td></tr><tr><td class=num>17</td><td><span class="tag s">売</span></td><td>10/19 19:18<br>↓ 10/20 23:48<div class=px>158.21 → 157.983</div></td><td class=num><span class="up">+0.23</span></td><td class=num>+3.87</td></tr><tr><td class=num>16</td><td><span class="tag b">買</span></td><td>10/16 13:09<br>↓ 10/19 19:18<div class=px>157.935 → 158.21</div></td><td class=num><span class="up">+0.28</span></td><td class=num>+3.65</td></tr><tr><td class=num>15</td><td><span class="tag s">売</span></td><td>10/16 00:42<br>↓ 10/16 13:09<div class=px>158.126 → 157.935</div></td><td class=num><span class="up">+0.19</span></td><td class=num>+3.37</td></tr><tr><td class=num>14</td><td><span class="tag b">買</span></td><td>10/14 12:45<br>↓ 10/16 00:42<div class=px>158.234 → 158.126</div></td><td class=num><span class="dn">-0.11</span></td><td class=num>+3.18</td></tr><tr><td class=num>13</td><td><span class="tag s">売</span></td><td>10/14 10:36<br>↓ 10/14 12:45<div class=px>158.423 → 158.234</div></td><td class=num><span class="up">+0.19</span></td><td class=num>+3.29</td></tr><tr><td class=num>12</td><td><span class="tag b">買</span></td><td>10/12 10:18<br>↓ 10/14 10:36<div class=px>158.128 → 158.423</div></td><td class=num><span class="up">+0.30</span></td><td class=num>+3.10</td></tr><tr><td class=num>11</td><td><span class="tag s">売</span></td><td>10/09 01:09<br>↓ 10/12 10:18<div class=px>158.297 → 158.128</div></td><td class=num><span class="up">+0.17</span></td><td class=num>+2.80</td></tr><tr><td class=num>10</td><td><span class="tag b">買</span></td><td>10/08 10:06<br>↓ 10/09 01:09<div class=px>157.858 → 158.297</div></td><td class=num><span class="up">+0.44</span></td><td class=num>+2.63</td></tr><tr><td class=num>9</td><td><span class="tag s">売</span></td><td>10/06 15:45<br>↓ 10/08 10:06<div class=px>158.16 → 157.858</div></td><td class=num><span class="up">+0.30</span></td><td class=num>+2.19</td></tr><tr><td class=num>8</td><td><span class="tag b">買</span></td><td>10/06 06:57<br>↓ 10/06 15:45<div class=px>157.879 → 158.16</div></td><td class=num><span class="up">+0.28</span></td><td class=num>+1.89</td></tr><tr><td class=num>7</td><td><span class="tag s">売</span></td><td>10/05 13:54<br>↓ 10/06 06:57<div class=px>158.103 → 157.879</div></td><td class=num><span class="up">+0.22</span></td><td class=num>+1.61</td></tr><tr><td class=num>6</td><td><span class="tag b">買</span></td><td>10/01 21:24<br>↓ 10/05 13:54<div class=px>158.003 → 158.103</div></td><td class=num><span class="up">+0.10</span></td><td class=num>+1.39</td></tr><tr><td class=num>5</td><td><span class="tag s">売</span></td><td>10/01 00:30<br>↓ 10/01 21:24<div class=px>157.151 → 158.003</div></td><td class=num><span class="dn">-0.85</span></td><td class=num>+1.29</td></tr><tr><td class=num>4</td><td><span class="tag b">買</span></td><td>09/30 12:15<br>↓ 10/01 00:30<div class=px>156.644 → 157.151</div></td><td class=num><span class="up">+0.51</span></td><td class=num>+2.14</td></tr><tr><td class=num>3</td><td><span class="tag s">売</span></td><td>09/30 00:36<br>↓ 09/30 12:15<div class=px>157.553 → 156.644</div></td><td class=num><span class="up">+0.91</span></td><td class=num>+1.63</td></tr><tr><td class=num>2</td><td><span class="tag b">買</span></td><td>09/29 21:21<br>↓ 09/30 00:36<div class=px>157.169 → 157.553</div></td><td class=num><span class="up">+0.38</span></td><td class=num>+0.72</td></tr><tr><td class=num>1</td><td><span class="tag s">売</span></td><td>09/29 14:09<br>↓ 09/29 21:21<div class=px>157.509 → 157.169</div></td><td class=num><span class="up">+0.34</span></td><td class=num>+0.34</td></tr></tbody></table></div><details open><summary>⚠ 数字を読むときの注意</summary><ul><li><b>取得日時は 2026-11-03 06:43 JST</b>。TradingView の Essential プランはさかのぼれる期間が日ごとにずれるため、<b>後日まったく同じ操作をしても集計期間と数字が変わります</b></li><li><b>TradingView の画面に出る「利益率」は建玉中の評価損益を含みません</b>。いま建玉中が -0.20 円あり、含めると利益率は 4.848 → 4.359 になります</li><li>表の損益はスプレッドや実際の約定ズレを含みません。実口座の成績とは一致しません</li><li>最大ドローダウンは、決済ごとの累積損益に加えて保有中の含み損も谷として数えています。TradingView の表示と計算の土俵が違うことがあります</li><li>この戦略は5分足6年の独立検証では利益率 0.924（ランダムに入った場合より悪い）でした。ここに出ている短期の高い利益率は、期間の取り方で出ることがあります</li><li>3分足は長期の裏取りができません（手持ちの検証データは最短5分足）</li></ul></details></main></body></html>
+</style></head><body><header><h1>売買記録 2026-11-03</h1><div class=sub>CA_RSI_Bol_1.1_JP — USDJPY 3分足</div><p style='margin:6px 0 0'><a href='../'>← 通算・過去の一覧</a></p></header><main><div class=kpi><div><div class=k>総損益</div><div class=v><span class="up">+5.15</span> 円</div><div class=n>建玉中込み +5.52 円</div></div><div><div class=k>利益率（PF）</div><div class=v>6.109</div><div class=n>建玉中込み 6.475</div></div><div><div class=k>勝率</div><div class=v>81.8%</div><div class=n>18 勝 / 22 取引</div></div><div><div class=k>最大ドローダウン</div><div class=v>1.65 円</div><div class=n>含み損も数えた谷</div></div></div><p class=note><b>取得日時 2026-11-03 19:03 JST</b>（この日さかのぼれた範囲 2026-10-06 〜 2026-11-03）<br>このページは<b>その日の TradingView 画面そのまま</b>です。古い取引も含めた通算は<a href="../">トップページ</a>にあります。</p><p class=note>ChartArt「Bollinger + RSI, Double Strategy」v1.1 の日本語表示版。ロジックは原本と同じで、矢印を「買い／売り」表示にして評価損益を円で出すようにしたもの。アラート2本（1時間足・3分足）が稼働中。</p><h2>戦略レポート（主な統計データと累積損益カーブ）</h2><a href='report.png' target=_blank rel=noopener><img src='report.png' alt='戦略レポート（主な統計データと累積損益カーブ）'></a><p class=cap>画像をタップすると原寸で開きます</p><h2>この日の取引一覧</h2><p>23 件（新しい順）</p><p class=cap>日時は上がエントリー・下が決済。小さい字は価格です。</p><div class=sc><table><thead><tr><th>#</th><th>方向</th><th>日時</th><th>損益<br>(円)</th><th>累積<br>(円)</th></tr></thead><tbody><tr class=op><td class=num>23</td><td><span class="tag b">買</span></td><td>11/03 16:48<br>↓ <b>建玉中</b><div class=px>157.799 → （未決済）</div></td><td class=num><span class="up">+0.37</span></td><td class=num>+5.52</td></tr><tr><td class=num>22</td><td><span class="tag s">売</span></td><td>11/02 09:33<br>↓ 11/03 16:48<div class=px>157.719 → 157.799</div></td><td class=num><span class="dn">-0.08</span></td><td class=num>+5.15</td></tr><tr><td class=num>21</td><td><span class="tag b">買</span></td><td>10/30 06:39<br>↓ 11/02 09:33<div class=px>157.668 → 157.719</div></td><td class=num><span class="up">+0.05</span></td><td class=num>+5.23</td></tr><tr><td class=num>20</td><td><span class="tag s">売</span></td><td>10/29 00:36<br>↓ 10/30 06:39<div class=px>158.199 → 157.668</div></td><td class=num><span class="up">+0.53</span></td><td class=num>+5.18</td></tr><tr><td class=num>19</td><td><span class="tag b">買</span></td><td>10/28 14:54<br>↓ 10/29 00:36<div class=px>157.816 → 158.199</div></td><td class=num><span class="up">+0.38</span></td><td class=num>+4.65</td></tr><tr><td class=num>18</td><td><span class="tag s">売</span></td><td>10/27 11:00<br>↓ 10/28 14:54<div class=px>157.659 → 157.816</div></td><td class=num><span class="dn">-0.16</span></td><td class=num>+4.26</td></tr><tr><td class=num>17</td><td><span class="tag b">買</span></td><td>10/26 11:48<br>↓ 10/27 11:00<div class=px>156.721 → 157.659</div></td><td class=num><span class="up">+0.94</span></td><td class=num>+4.42</td></tr><tr><td class=num>16</td><td><span class="tag s">売</span></td><td>10/26 10:03<br>↓ 10/26 11:48<div class=px>157.057 → 156.721</div></td><td class=num><span class="up">+0.34</span></td><td class=num>+3.48</td></tr><tr><td class=num>15</td><td><span class="tag b">買</span></td><td>10/22 13:45<br>↓ 10/26 10:03<div class=px>157.719 → 157.057</div></td><td class=num><span class="dn">-0.66</span></td><td class=num>+3.15</td></tr><tr><td class=num>14</td><td><span class="tag s">売</span></td><td>10/22 04:18<br>↓ 10/22 13:45<div class=px>158.26 → 157.719</div></td><td class=num><span class="up">+0.54</span></td><td class=num>+3.81</td></tr><tr><td class=num>13</td><td><span class="tag b">買</span></td><td>10/21 21:48<br>↓ 10/22 04:18<div class=px>157.942 → 158.26</div></td><td class=num><span class="up">+0.32</span></td><td class=num>+3.27</td></tr><tr><td class=num>12</td><td><span class="tag s">売</span></td><td>10/21 10:09<br>↓ 10/21 21:48<div class=px>158.307 → 157.942</div></td><td class=num><span class="up">+0.37</span></td><td class=num>+2.95</td></tr><tr><td class=num>11</td><td><span class="tag b">買</span></td><td>10/20 23:48<br>↓ 10/21 10:09<div class=px>157.983 → 158.307</div></td><td class=num><span class="up">+0.32</span></td><td class=num>+2.58</td></tr><tr><td class=num>10</td><td><span class="tag s">売</span></td><td>10/19 19:18<br>↓ 10/20 23:48<div class=px>158.21 → 157.983</div></td><td class=num><span class="up">+0.23</span></td><td class=num>+2.26</td></tr><tr><td class=num>9</td><td><span class="tag b">買</span></td><td>10/16 13:09<br>↓ 10/19 19:18<div class=px>157.935 → 158.21</div></td><td class=num><span class="up">+0.28</span></td><td class=num>+2.03</td></tr><tr><td class=num>8</td><td><span class="tag s">売</span></td><td>10/16 00:42<br>↓ 10/16 13:09<div class=px>158.126 → 157.935</div></td><td class=num><span class="up">+0.19</span></td><td class=num>+1.76</td></tr><tr><td class=num>7</td><td><span class="tag b">買</span></td><td>10/14 12:45<br>↓ 10/16 00:42<div class=px>158.234 → 158.126</div></td><td class=num><span class="dn">-0.11</span></td><td class=num>+1.57</td></tr><tr><td class=num>6</td><td><span class="tag s">売</span></td><td>10/14 10:36<br>↓ 10/14 12:45<div class=px>158.423 → 158.234</div></td><td class=num><span class="up">+0.19</span></td><td class=num>+1.68</td></tr><tr><td class=num>5</td><td><span class="tag b">買</span></td><td>10/12 10:18<br>↓ 10/14 10:36<div class=px>158.128 → 158.423</div></td><td class=num><span class="up">+0.30</span></td><td class=num>+1.49</td></tr><tr><td class=num>4</td><td><span class="tag s">売</span></td><td>10/09 01:09<br>↓ 10/12 10:18<div class=px>158.297 → 158.128</div></td><td class=num><span class="up">+0.17</span></td><td class=num>+1.19</td></tr><tr><td class=num>3</td><td><span class="tag b">買</span></td><td>10/08 10:06<br>↓ 10/09 01:09<div class=px>157.858 → 158.297</div></td><td class=num><span class="up">+0.44</span></td><td class=num>+1.02</td></tr><tr><td class=num>2</td><td><span class="tag s">売</span></td><td>10/06 15:45<br>↓ 10/08 10:06<div class=px>158.16 → 157.858</div></td><td class=num><span class="up">+0.30</span></td><td class=num>+0.58</td></tr><tr><td class=num>1</td><td><span class="tag b">買</span></td><td>10/06 06:57<br>↓ 10/06 15:45<div class=px>157.879 → 158.16</div></td><td class=num><span class="up">+0.28</span></td><td class=num>+0.28</td></tr></tbody></table></div><details open><summary>⚠ 数字を読むときの注意</summary><ul><li><b>取得日時は 2026-11-03 19:03 JST</b>。TradingView の Essential プランはさかのぼれる期間が日ごとにずれるため、<b>後日まったく同じ操作をしても集計期間と数字が変わります</b></li><li><b>TradingView の画面に出る「利益率」は建玉中の評価損益を含みません</b>。いま建玉中が +0.37 円あり、含めると利益率は 6.109 → 6.475 になります</li><li>表の損益はスプレッドや実際の約定ズレを含みません。実口座の成績とは一致しません</li><li>最大ドローダウンは、決済ごとの累積損益に加えて保有中の含み損も谷として数えています。TradingView の表示と計算の土俵が違うことがあります</li><li>この戦略は5分足6年の独立検証では利益率 0.924（ランダムに入った場合より悪い）でした。ここに出ている短期の高い利益率は、期間の取り方で出ることがあります</li><li>3分足は長期の裏取りができません（手持ちの検証データは最短5分足）</li></ul></details></main></body></html>
